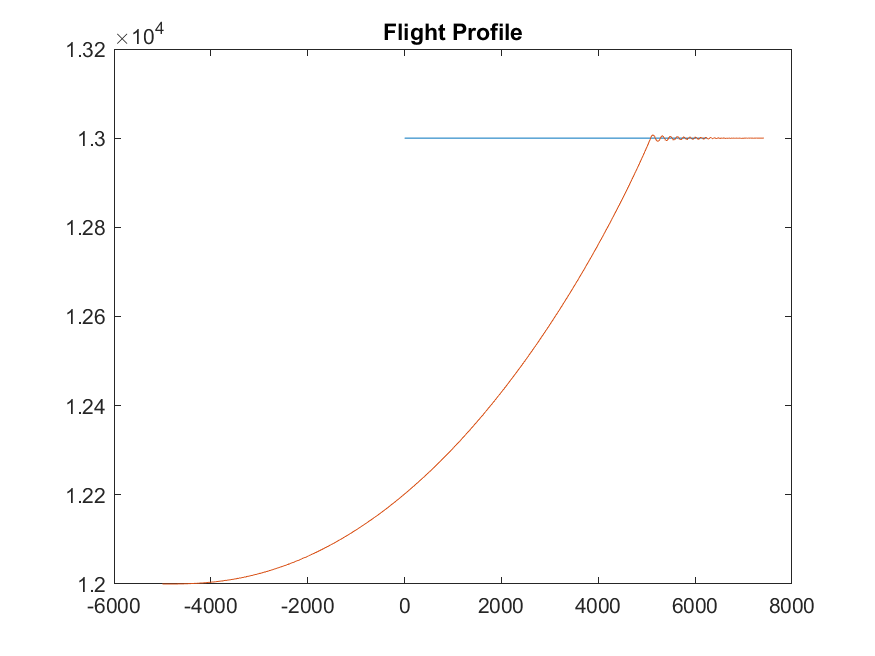
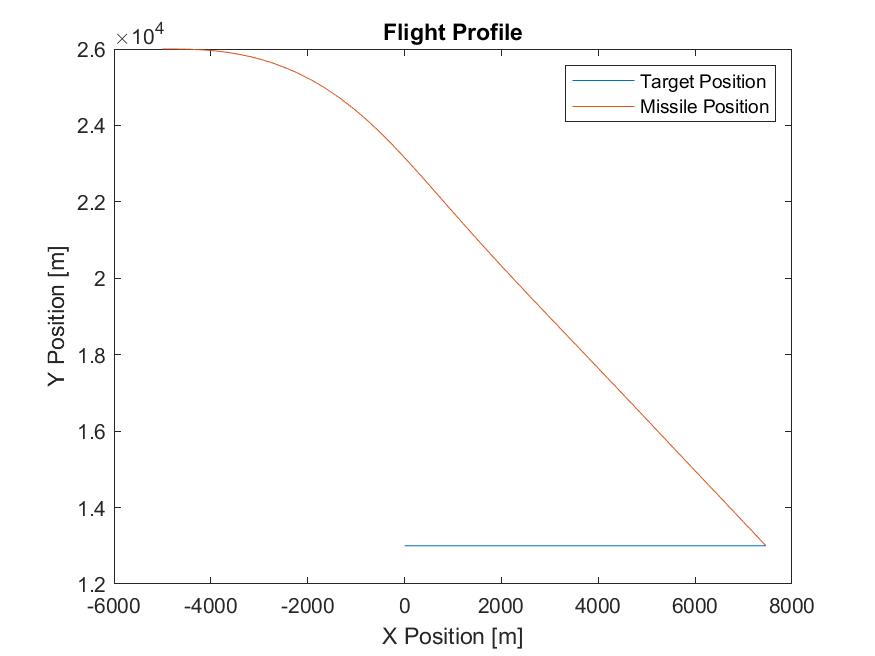
New Figs and Updates

diff --git a/Project 4/Project4.m b/Project 4/Project4.m
@@ -4,38 +4,64 @@ clear, clc, close all
 
 % Constants
 c = 343;
-dt = 0.1;
-tSim = 25;
-N = 0.7;
+tSim = 18.12;
+N = 3;
 
 % Initial Conditions
-tv0     = 250;     
+tv0     = 1.2*c;     
 ty0     = 13000;  
 tx0     = 0;      
 thead0  = 0; 
-mv0     = 500;       
+mv0     = 3*c;       
 mx0     = -5000;  
-my0     = 12000;  
+my0     = 26000;  
 launch_ang = 0;
 th0     = (atan2((ty0-my0),(tx0-mx0)));
+r0      = sqrt((tx0-mx0)^2 + (ty0-my0)^2);
 vc0     = sqrt((mv0*cosd(launch_ang) + tv0*cosd(thead0))^2 + (mv0*sind(launch_ang) + tv0*sind(thead0))^2);
 
 % ODE Solver
-[t, x] = ode45(@(t,x) guide(t, x, dt, N), [0 tSim],[tv0; tx0; ty0; thead0; mv0; mx0; my0; launch_ang; th0; vc0]);
+[t, x] = ode45(@(t,x) guide(t, x, N), [0 tSim],[tv0; tx0; ty0; thead0; mv0; mx0; my0; launch_ang; th0; vc0]);
  
-
+for i = 1:length(t)
+    [~, R(i), dth(i)] = guide(t(i), x(i,:), N);
+end 
 
 % Plotting
 figure;
 plot(x(:,2), x(:,3))
 hold on
 plot(x(:,6), x(:,7))
+xlabel('X Position [m]')
+ylabel('Y Position [m]')
 title('Flight Profile')
+legend('Target Position', 'Missile Position');
 saveas(gcf, 'Figures/P4Trajectories.png');
 
+figure;
+yyaxis left
+plot(t, R')
+ylabel('Distance [m]')
+yyaxis right
+plot(t, x(:,10))
+ylabel('Closing Velocity [m/s]');
+xlabel('Time [s]')
+title('Missile - Target Relations')
+saveas(gcf, 'Figures/P4MTRelations.png');
+
+figure;
+yyaxis left
+plot(t, rad2deg(x(:,9)))
+ylabel('Theta [deg]')
+yyaxis right
+plot(t, rad2deg(dth'))
+ylabel('Theta Dot [deg/s]');
+xlabel('Time [s]')
+title('Theta Relations')
+saveas(gcf, 'Figures/P4thetaRelations.png');
 
 
-function [dxdt] = guide(t, x, dt, N)
+function [dxdt, R, dth] = guide(t, x, N)
 
 tdv = 0;
 tdhead = x(4);
@@ -52,7 +78,7 @@ my = x(7);
 
 X  = tx-mx;
 Y  = ty-my;
-R  = sqrt(X^2-Y^2);
+R  = sqrt(X^2+Y^2);
 th = x(9);
 thn = (atan2(Y,X));
 dth = thn-th;
@@ -66,14 +92,10 @@ vcn  = sqrt((mvx + tvx)^2 + (mvy + tvy)^2);
 dvc = vcn-vc;
 a = N * (dth) * vc;
 
-
 mdth = a/10;
-
-
 mdv = 0;
 
-
-    dxdt = [tdv; tdx; tdy; tdhead; mdv; mdx; mdy; mdth; dth; dvc];
+dxdt = [tdv; tdx; tdy; tdhead; mdv; mdx; mdy; mdth; dth; dvc];
 end 
 
 
